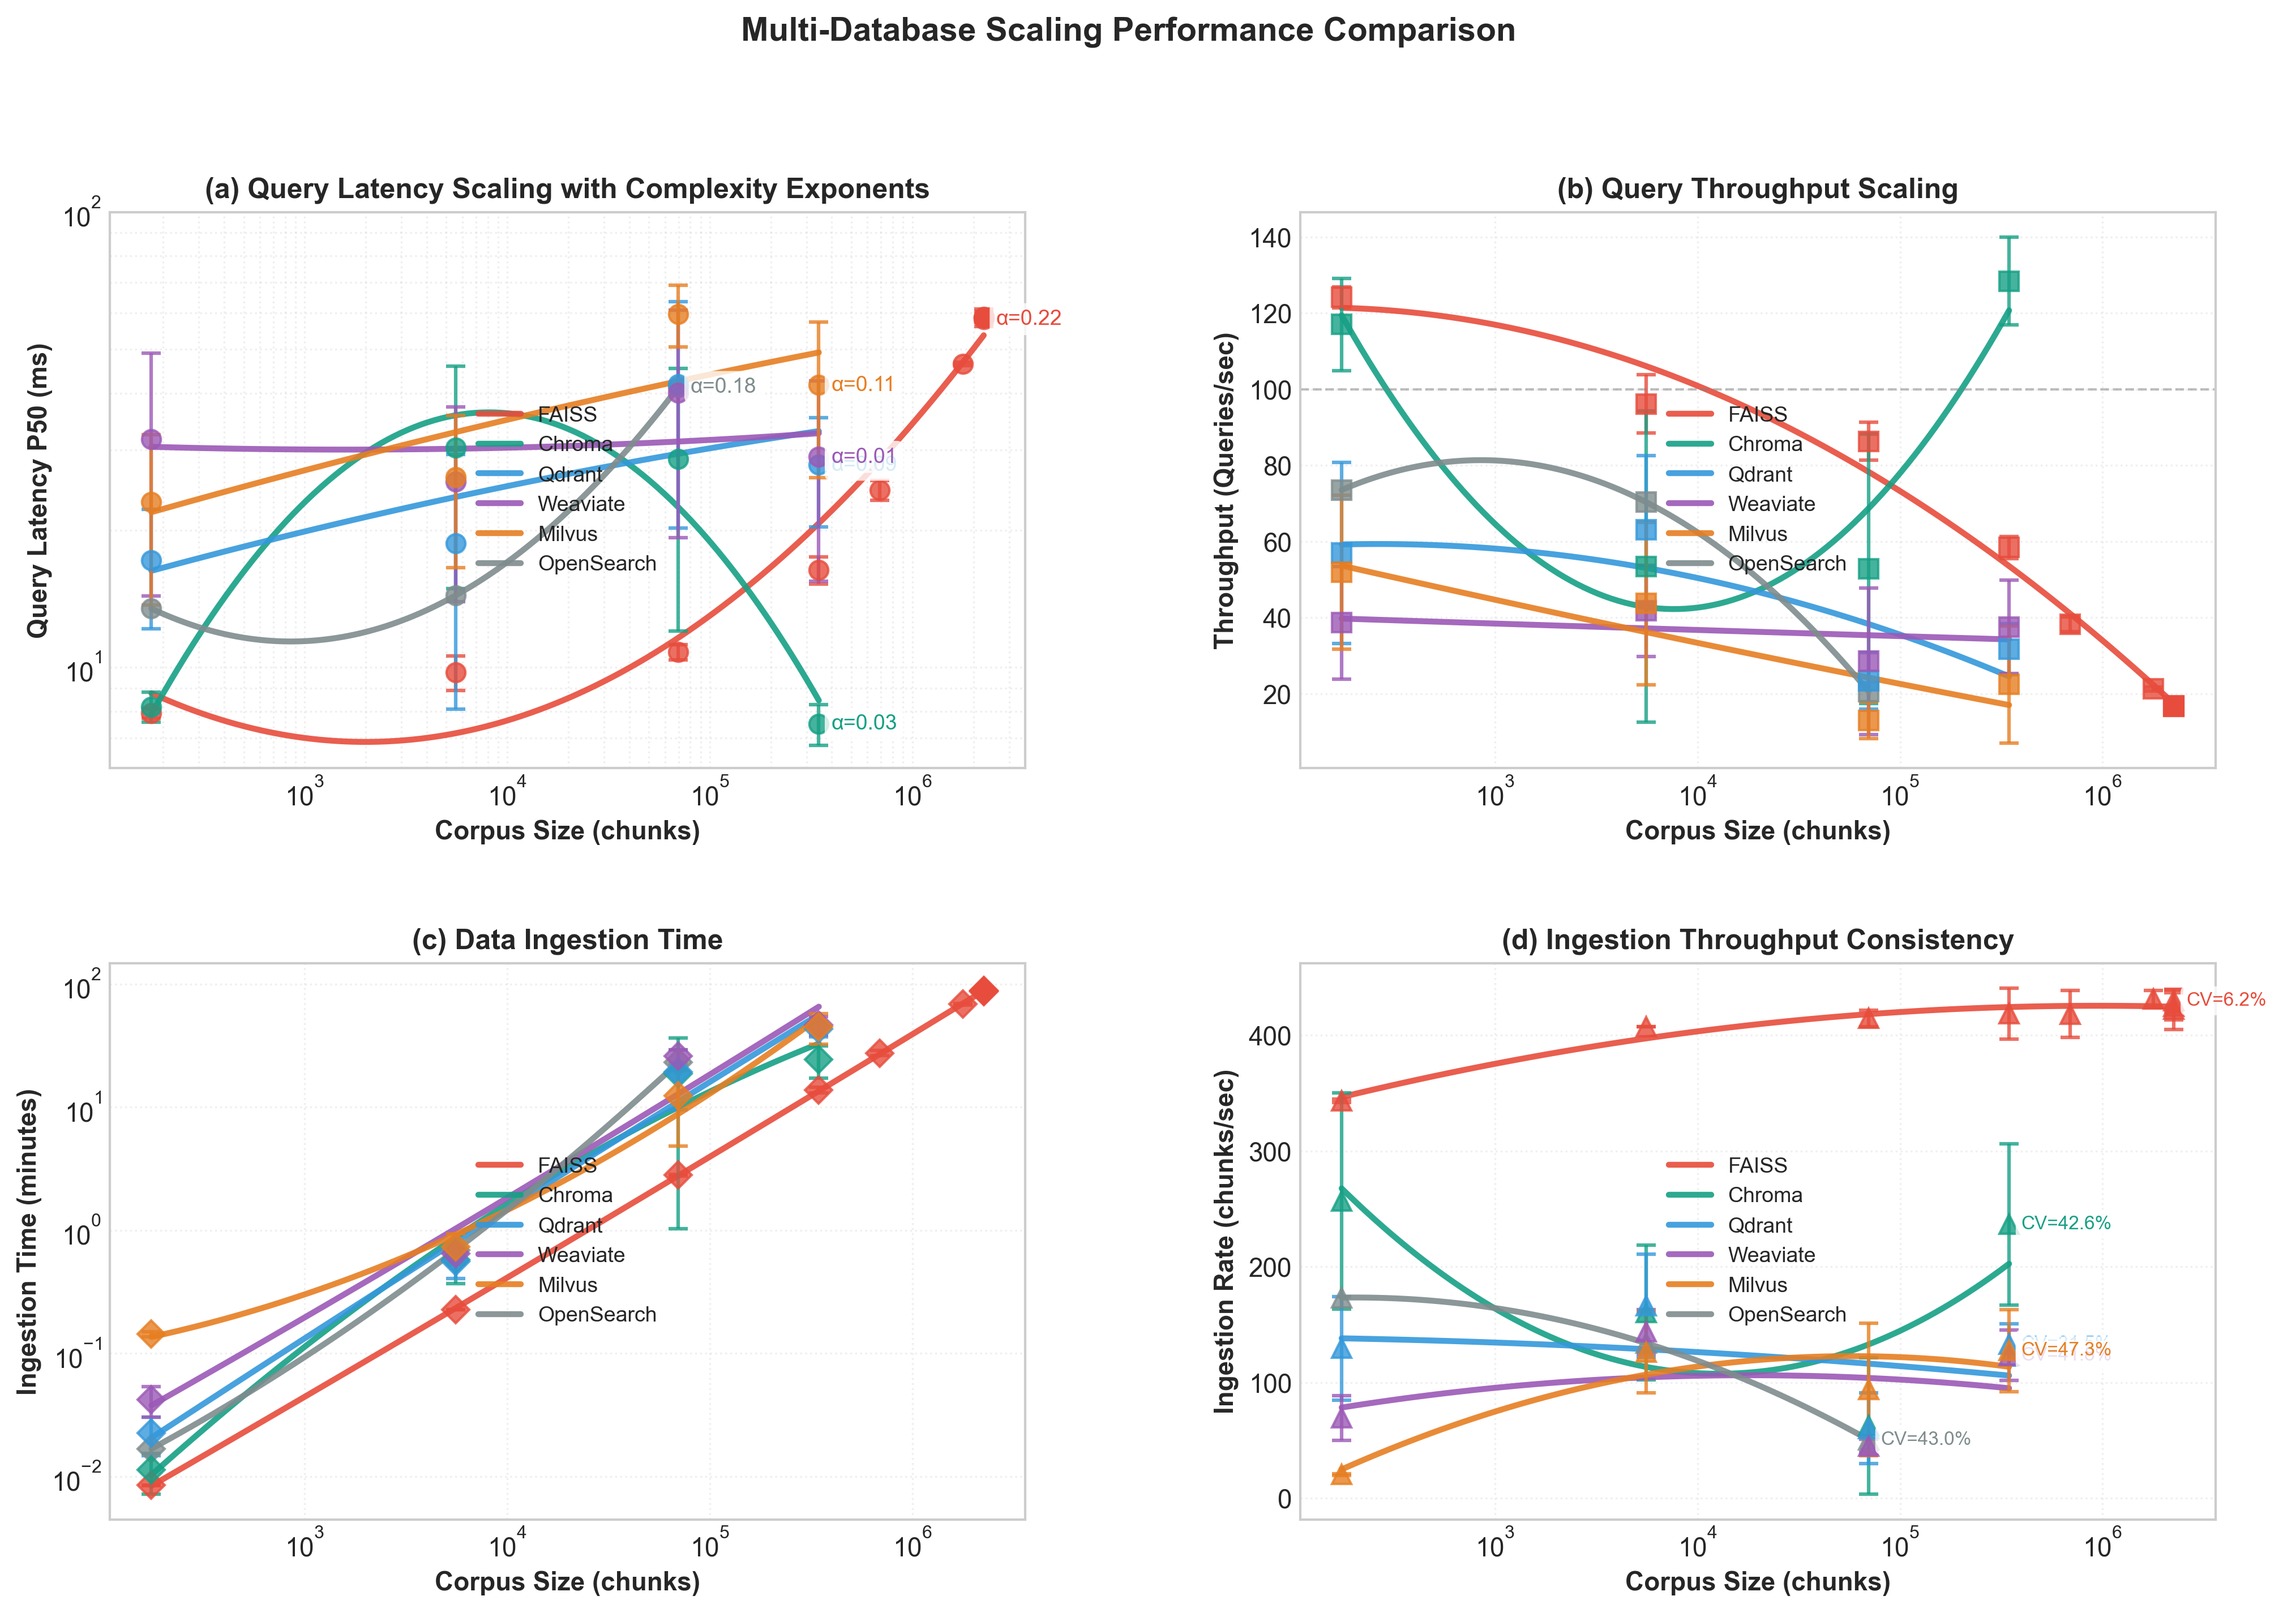
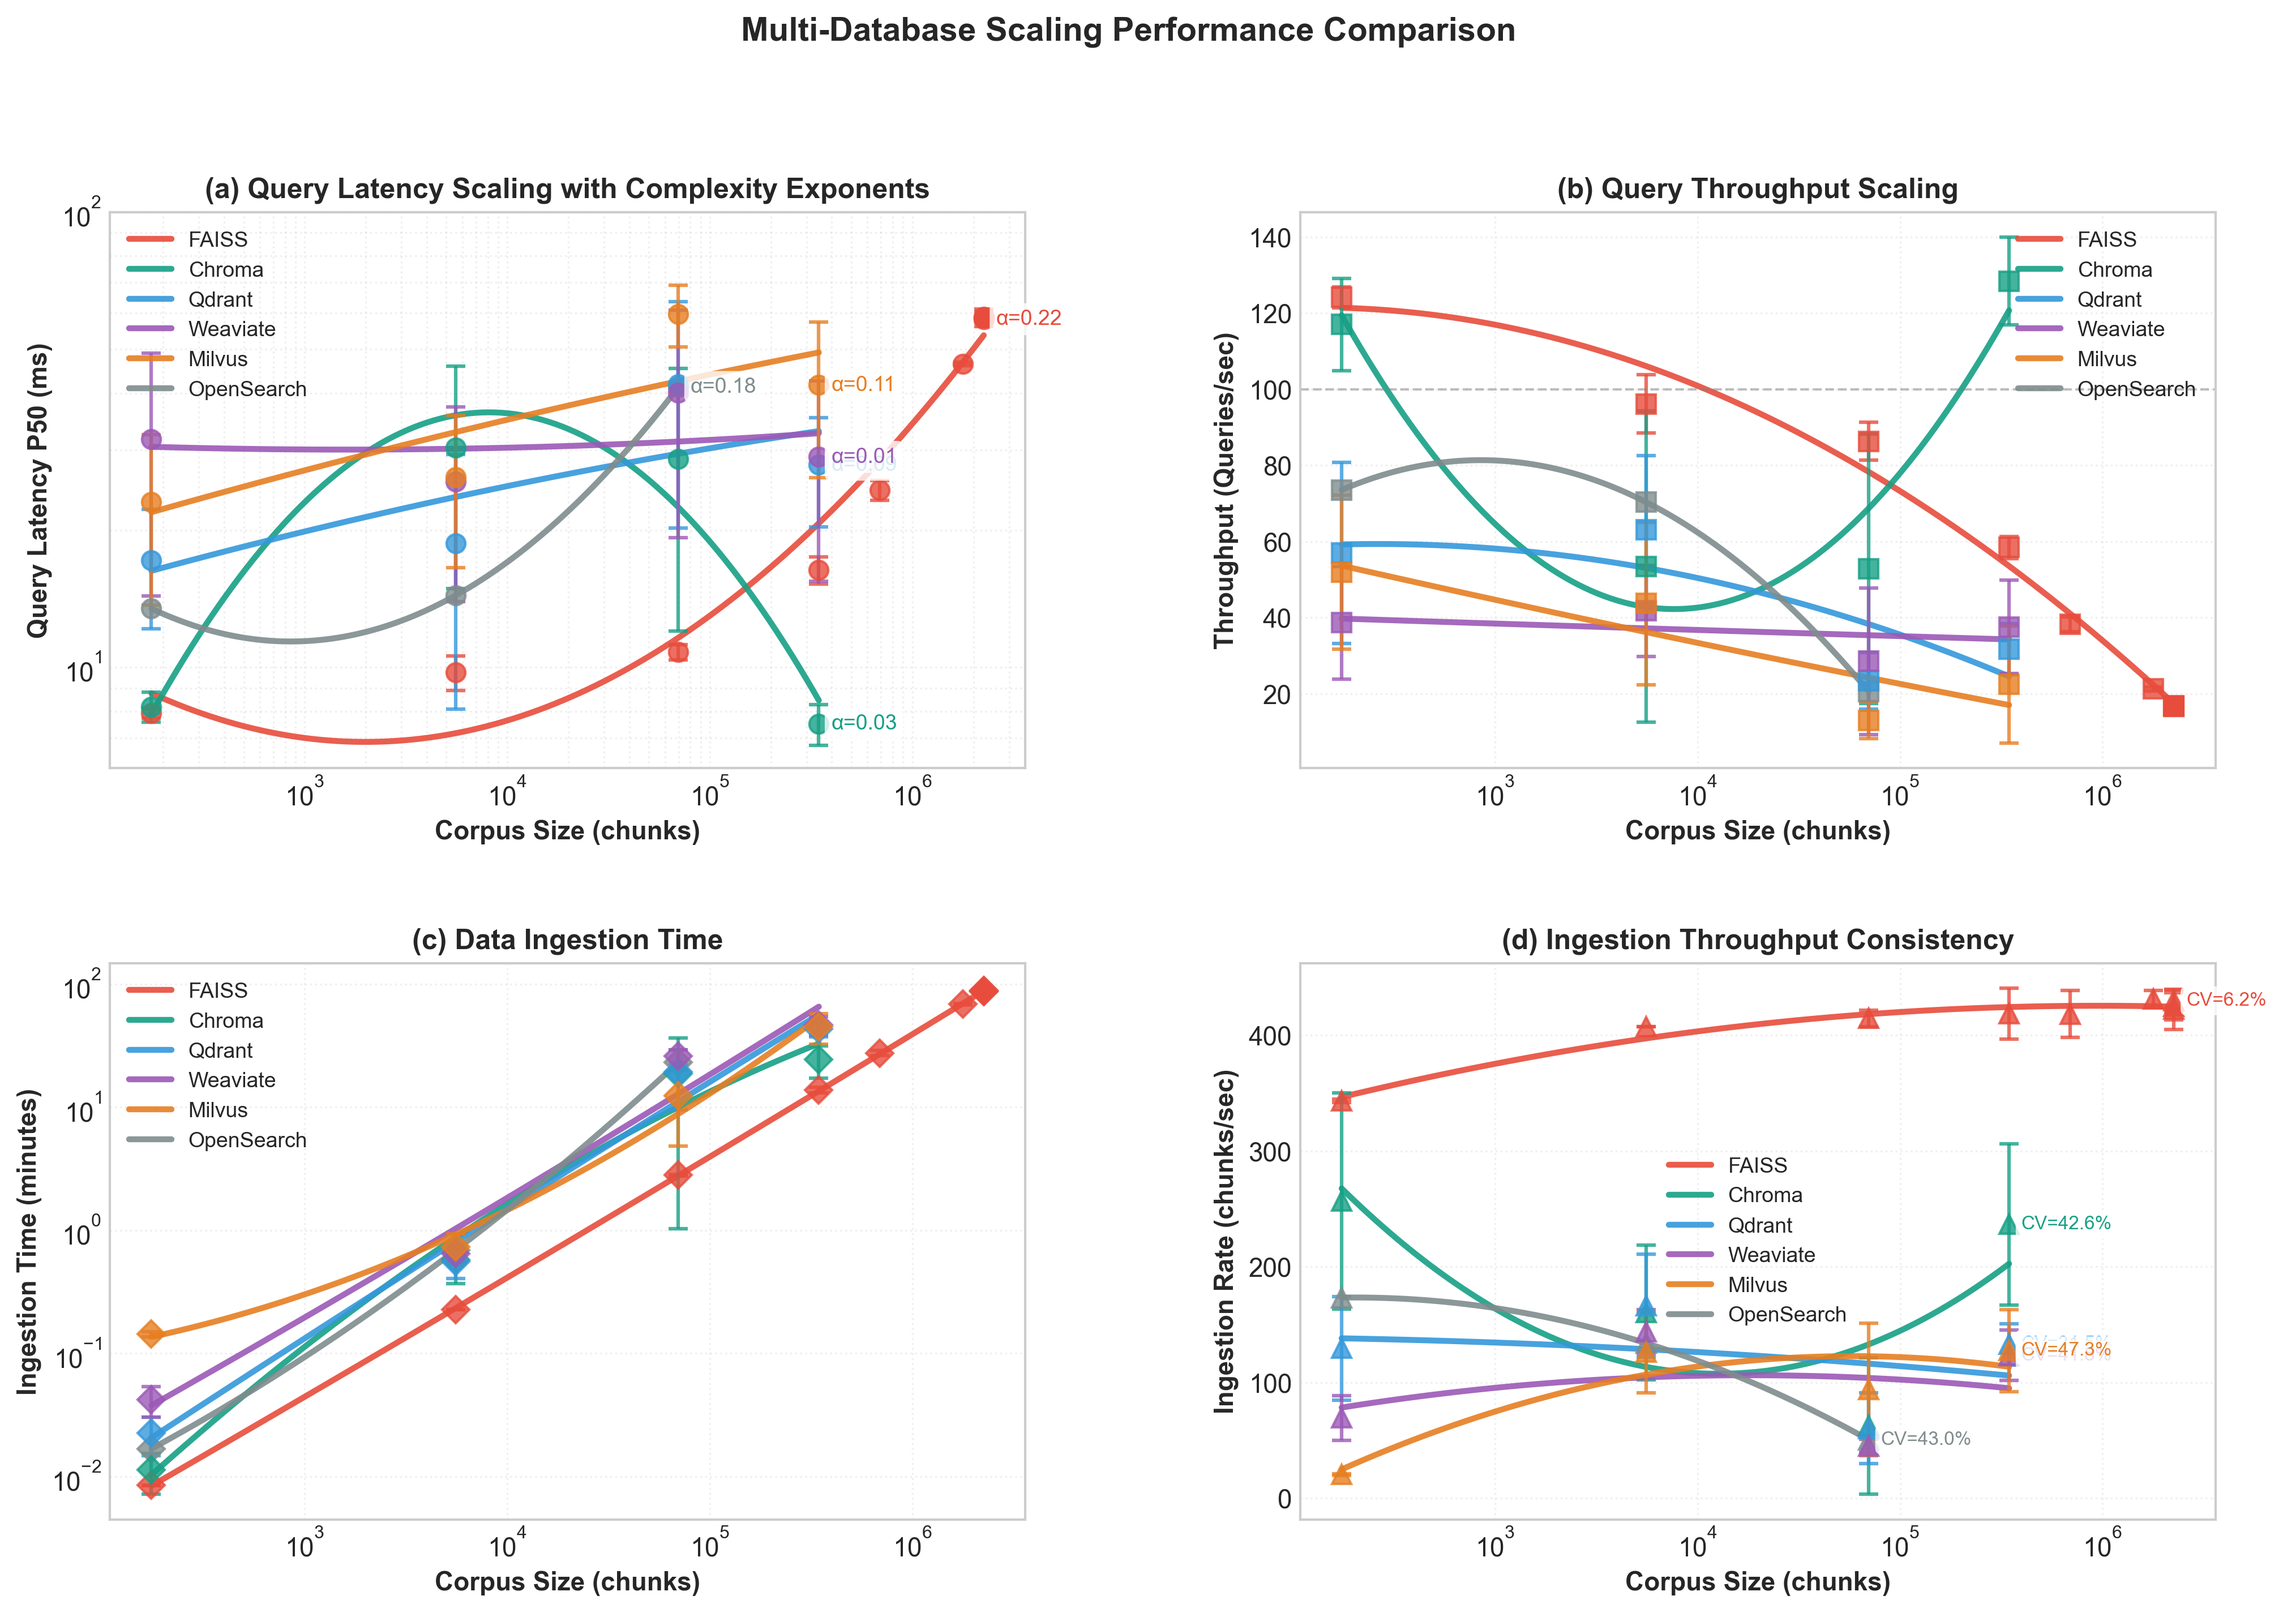
Revert legend positions for panels a, b, c; keep panel d centered
Restored original legend positions:
- Panel (a): center → upper left (reverted)
- Panel (b): center → best (reverted)
- Panel (c): center → upper left (reverted)
- Panel (d): center (kept - avoids CV annotation occlusion)

🤖 Generated with [Claude Code](https://claude.com/claude-code)

diff --git a/Scripts/plot_multi_database_scaling.py b/Scripts/plot_multi_database_scaling.py
@@ -448,7 +448,7 @@ def plot_combined_dashboard(all_data, output_dir):
     ax1.set_xlabel('Corpus Size (chunks)', fontweight='bold', fontsize=11)
     ax1.set_ylabel('Query Latency P50 (ms)', fontweight='bold', fontsize=11)
     ax1.set_title('(a) Query Latency Scaling with Complexity Exponents', fontweight='bold', fontsize=12)
-    ax1.legend(loc='center', framealpha=0.95, fontsize=9)
+    ax1.legend(loc='upper left', framealpha=0.95, fontsize=9)
     ax1.grid(True, alpha=0.3, which='both', linestyle=':')
     ax1.set_xscale('log')
     ax1.set_yscale('log')
@@ -514,7 +514,7 @@ def plot_combined_dashboard(all_data, output_dir):
     ax2.set_xlabel('Corpus Size (chunks)', fontweight='bold', fontsize=11)
     ax2.set_ylabel('Throughput (Queries/sec)', fontweight='bold', fontsize=11)
     ax2.set_title('(b) Query Throughput Scaling', fontweight='bold', fontsize=12)
-    ax2.legend(loc='center', framealpha=0.95, fontsize=9)
+    ax2.legend(loc='best', framealpha=0.95, fontsize=9)
     ax2.grid(True, alpha=0.3, linestyle=':')
     ax2.set_xscale('log')
     ax2.axhline(y=100, color='gray', linestyle='--', linewidth=1, alpha=0.5, label='100 QPS threshold')
@@ -564,7 +564,7 @@ def plot_combined_dashboard(all_data, output_dir):
     ax3.set_xlabel('Corpus Size (chunks)', fontweight='bold', fontsize=11)
     ax3.set_ylabel('Ingestion Time (minutes)', fontweight='bold', fontsize=11)
     ax3.set_title('(c) Data Ingestion Time', fontweight='bold', fontsize=12)
-    ax3.legend(loc='center', framealpha=0.95, fontsize=9)
+    ax3.legend(loc='upper left', framealpha=0.95, fontsize=9)
     ax3.grid(True, alpha=0.3, linestyle=':')
     ax3.set_xscale('log')
     ax3.set_yscale('log')
